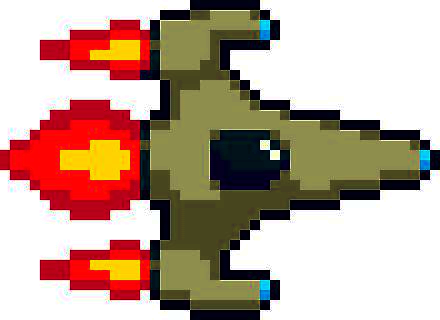
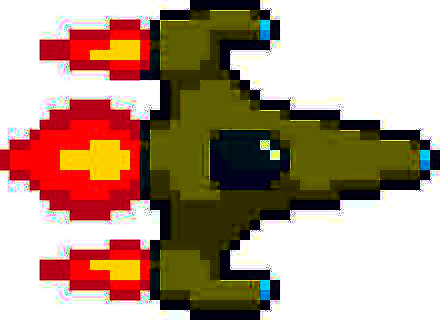
added the forgotten pics for the animations and improved the shot frequency of the spaceships

diff --git a/spaceship.py b/spaceship.py
@@ -22,10 +22,9 @@ class Bullet:
 		self.rect.y = self.coof * self.rect.x +self.b
 
 class SpaceShip:
-	def __init__(self, display, x, y, image, speed=10):
+	def __init__(self, display, x, y, image, frequency=20, speed=10):
 		self.display = display
 		self.strForImage2 = image[:len(image)-4] + '2' + image[-4:]
-		print(self.strForImage2)
 		self.image = pygame.transform.scale(load_file(image), percentPix((8,10)))
 		self.image2 = pygame.transform.scale(load_file(self.strForImage2), percentPix((9,10)))
 		self.currentImage = self.image
@@ -37,16 +36,19 @@ class SpaceShip:
 		self.list_bullets = []
 		self.alive = True
 		self.speed = speed
-		self.incrementForAnimations=0
+		self.incrementFor1Second = 0
+		self.frequency = frequency
+		self.lastShots = self.frequency
 
 	def update(self):
-		self.incrementForAnimations = self.incrementForAnimations + 1
-		if self.incrementForAnimations == 60 and self.currentImage == self.image:
-			self.currentImage = self.image2
-			self.incrementForAnimations = 0
-		elif self.incrementForAnimations == 60 and self.currentImage == self.image2:
-			self.currentImage = self.image
-			self.incrementForAnimations = 0
+		self.incrementFor1Second = self.incrementFor1Second + 1
+		if self.incrementFor1Second == 60:
+			if self.currentImage == self.image:
+				self.currentImage = self.image2
+			elif self.currentImage == self.image2:
+				self.currentImage = self.image
+			self.incrementFor1Second = 0
+			self.lastShots = self.frequency
 		for bullet in self.list_bullets:
 			bullet.update()
 			if not self.display.get_rect().colliderect(bullet.rect):
@@ -78,8 +80,10 @@ class Player(SpaceShip):
 			self.rect.x -= self.speed
 
 	def shoot(self):
-		if mouseAngle(self) > -35 and mouseAngle(self) < 35:
-			self.list_bullets.append(self.bullet(self.rect.x, self.rect.y, self.height))
+		if self.lastShots > 0:
+			if mouseAngle(self) > -35 and mouseAngle(self) < 35:
+				self.list_bullets.append(self.bullet(self.rect.x, self.rect.y, self.height))
+				self.lastShots = self.lastShots-1
 
 
 class Enemy(SpaceShip):
@@ -105,5 +109,8 @@ class Enemy(SpaceShip):
 			self.rect.x -= self.speed
 
 	def shoot(self, player):
-		if random.choice([True, False]):
-			self.list_bullets.append(self.bullet(self.rect.x, self.rect.y, self.height, 10, False, player.rect.x, player.rect.y+player.height/2))
+		if self.lastShots > 0:
+			if random.randint(0,800)<50:
+				self.list_bullets.append(self.bullet(self.rect.x, self.rect.y, self.height, 10, False, player.rect.x, player.rect.y+player.height/2))
+				self.lastShots = self.lastShots-1
+		else: pass
